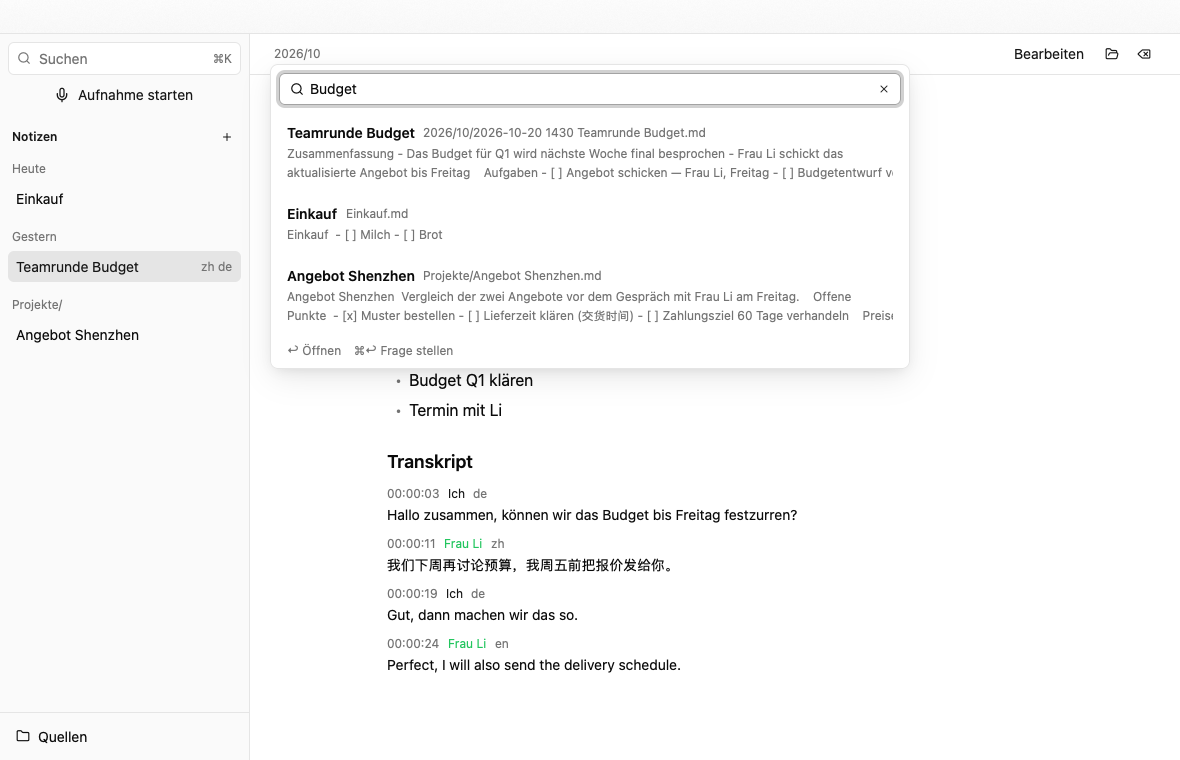
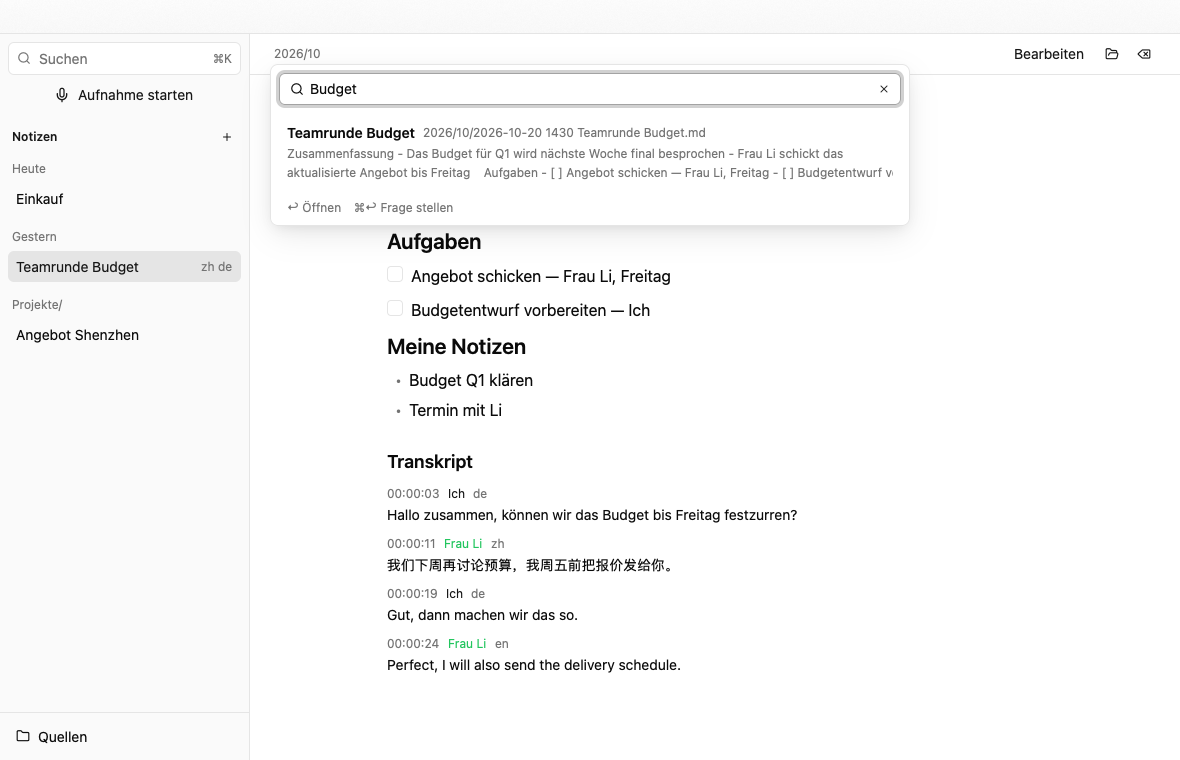
Release-Bundle unter 40 MB (strip, Thin-LTO, weniger Grammatiken), Screenshots erneuert, Status

Changed region(s): [[0.2441, 0.2724, 0.7627, 0.5145]]

diff --git a/docs/STATUS.md b/docs/STATUS.md
@@ -13,6 +13,7 @@ echte Aufnahme über Mikrofon und System-Audio** – das ist die Abnahme durch d
 | `cargo fmt --check` | sauber |
 | `cargo deny check` | Lizenzen, Sicherheitsmeldungen, Netzwerkregel (§11) ok |
 | Echte Modelle (`ln-bench`, M1 8 GB) | Spracherkennung de/en/zh/fr/es je Abschnitt korrekt (Konfidenz 0,96–1,00), Echtzeitfaktor **0,11**, Embeddings sprachübergreifend (Ähnlichkeit 0,48–0,65 verwandt vs. 0,10 fremd) |
+| App-Bundle (`scripts/bundle-macos.sh`, Release, signiert ad-hoc + Hardened Runtime) | **37 MB** (Ziel < 40 MB); Arbeitsspeicher im Leerlauf **66 MB** (Ziel < 80 MB) |
 | App mit echter Pipeline (Tour, Audiodateien statt Geräten) | Aufnahme → Live-Transkript in 5 Sprachen → Live-Vorschlag → Markdown-Notiz; Screenshots in `docs/screenshots/` |
 
 ## Funktionen
@@ -57,6 +58,10 @@ echte Aufnahme über Mikrofon und System-Audio** – das ist die Abnahme durch d
 - Chinesisch mit synthetischer Stimme: einzelne Verhörer („日算“ statt „预算“).
 - Treffer-Ausschnitte zeigen rohes Markdown (z. B. `- [ ]`).
 - Der Zeitstempel des ersten Abschnitts kann wegen der VAD-Polsterung `00:00:00` sein.
+- Code-Hervorhebung in Notizen nur für Markdown, Rust, Python, JavaScript und Bash (Größe des
+  Bundles); weitere Grammatiken lassen sich in `crates/ln-app/Cargo.toml` zuschalten.
+- Xcode ist für den Build nicht nötig (GPUI kompiliert Shader zur Laufzeit); die Installation
+  über den App Store wartete beim Abschluss noch auf das Administrator-Passwort.
 
 ## Abnahme durch den Projektinhaber
 

diff --git a/docs/adr/ADR-0001-ui-framework.md b/docs/adr/ADR-0001-ui-framework.md
@@ -1,6 +1,6 @@
 # ADR-0001: UI-Framework
 
-- Status: Vorschlag
+- Status: Angenommen (umgesetzt mit gpui-kit 0.8 / gpui-pre 0.3.9; baut ohne Xcode)
 - Datum: 2026-10-21
 
 ## Kontext
@@ -109,3 +109,12 @@ Absicherung gegen das pre-1.0-Risiko:
 - Sehr gute Performance und Typografie, insbesondere für Chinesisch.
 - Wir akzeptieren Upgrade-Aufwand bei GPUI-Versionssprüngen.
 - Plattform zunächst nur macOS; GPUI unterstützt inzwischen auch Linux/Windows, das bleibt eine Option.
+
+## Erfahrungen aus der Umsetzung (2026-10-21)
+
+- `gpui-kit` bündelt GPUI und die Komponenten mit passender Version; ein Crate genügt.
+- Markdown-Ansicht, Editor mit tree-sitter-Hervorhebung, Dialoge und Benachrichtigungen funktionieren
+  wie dokumentiert. Anklickbare Aufgaben bietet die Markdown-Ansicht nicht; die App rendert sie selbst.
+- Offscreen-Rendering (`render_to_image`, Feature `screenshots`) erlaubt Screenshots ohne
+  Bildschirmaufnahme-Berechtigung.
+- Noch nicht praktisch geprüft: Pinyin-Eingabe (IME) im Editor.
